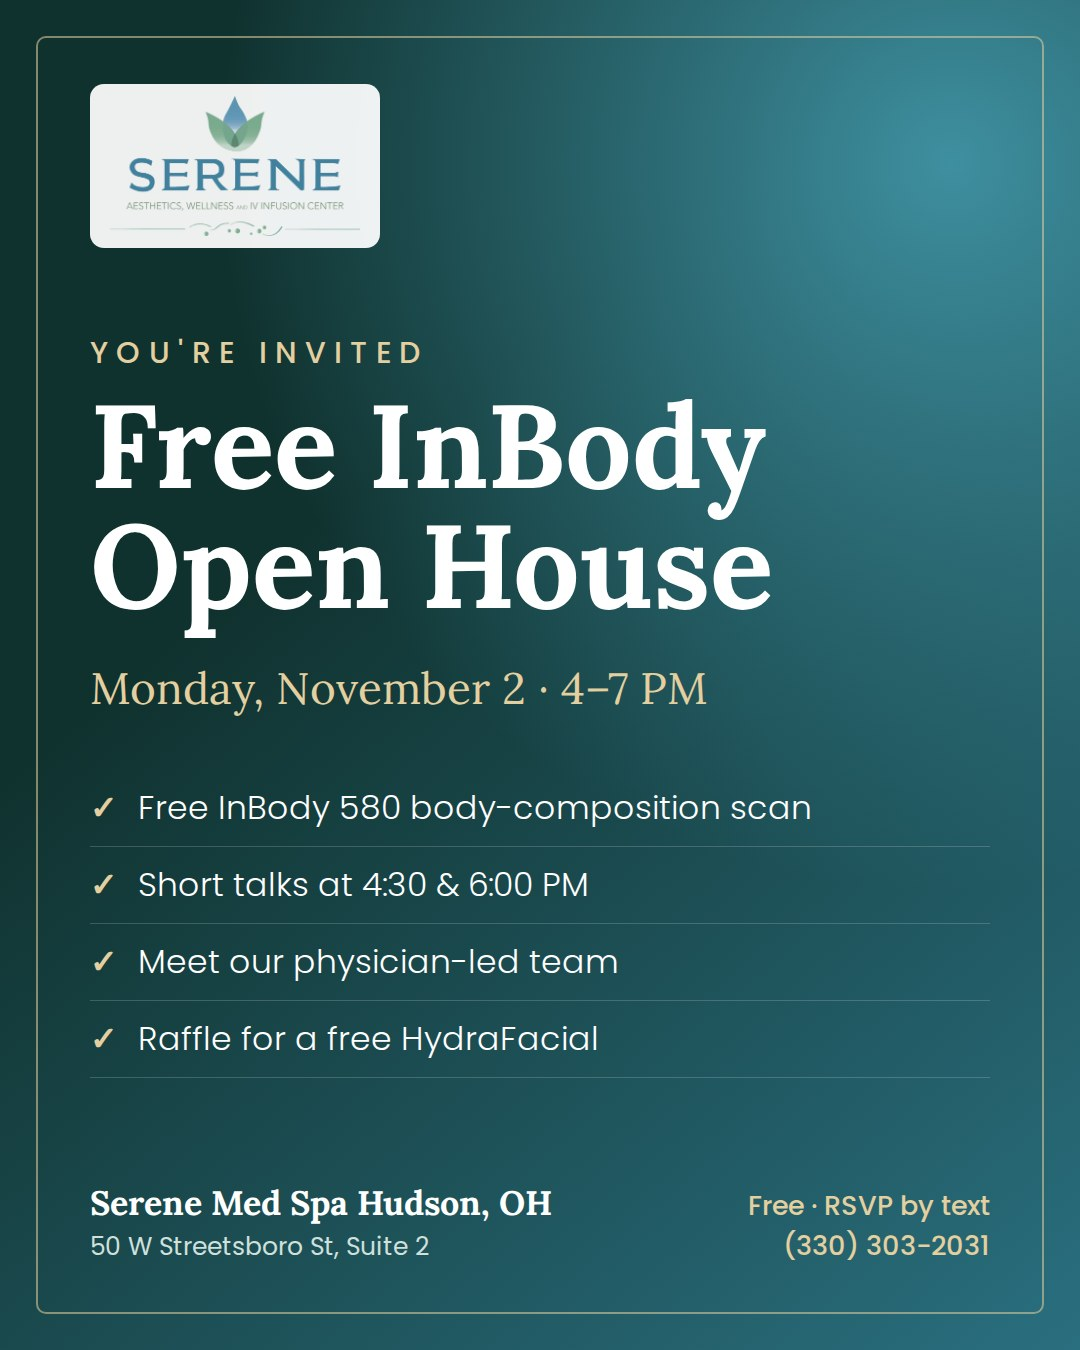
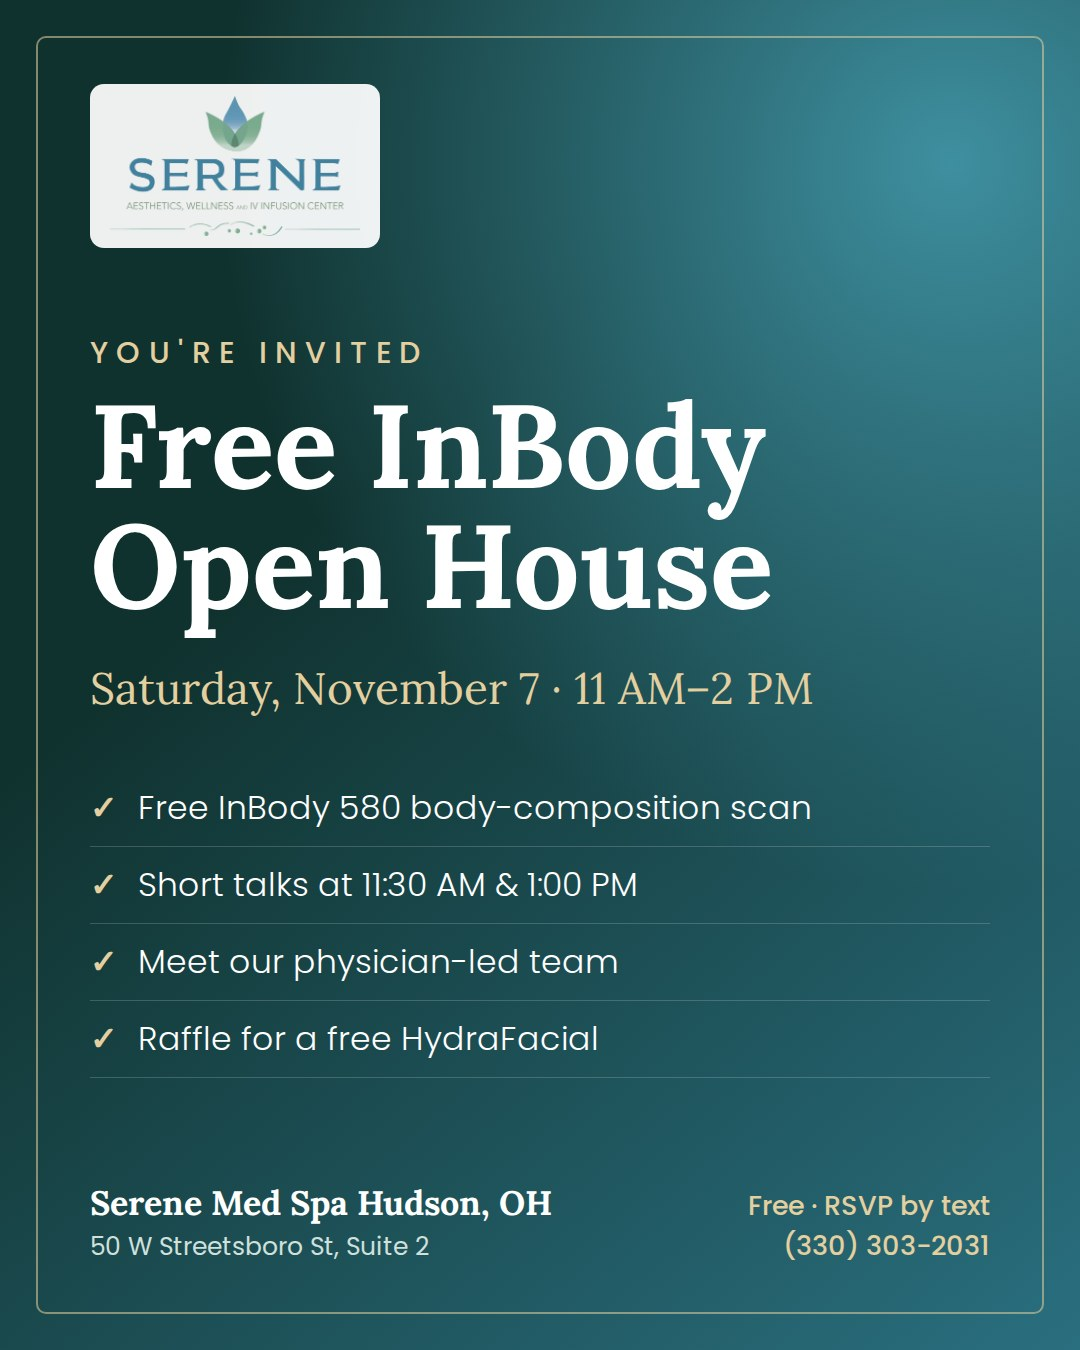
auto: 2026-10-13 14:17 — site update

Changed region(s): [[0.0611, 0.4978, 0.7639, 0.5289], [0.3972, 0.6222, 0.5806, 0.6844], [0.3361, 0.6533, 0.3667, 0.6844]]

diff --git a/events_page.py b/events_page.py
@@ -1,34 +1,35 @@
-# /events/inbody-open-house/ - free InBody open house, Mon Nov 2 2026, 4-7 PM, both offices (Robin, Oct 10 2026).
+# /events/inbody-open-house/ - free InBody open house (Robin, Oct 10 2026). Oct 13: Robin moved Hudson to Sat Nov 7, 11 AM-2 PM so he can attend both;
+# Barboursville stays Mon Nov 2, 4-7 PM.
 # RSVP = Jotform 262828603340051 (name, email, mobile, office, party size, arrival window, optional marketing consent).
 from site_lib import shell, page_hero, HUDSON, BARB
 
 RSVP = "https://form.jotform.com/262828603340051"
 
 def open_house():
-    body = page_hero("Free InBody Open House", "Monday, November 2, 4&ndash;7 PM at both Serene Med Spa offices. Free InBody 580 body-composition scans, short talks from our physician-led team, light refreshments and a raffle for a free HydraFacial.",
+    body = page_hero("Free InBody Open House", "Barboursville: Monday, November 2, 4&ndash;7 PM. Hudson: Saturday, November 7, 11 AM&ndash;2 PM. Free InBody 580 body-composition scans, short talks from our physician-led team, light refreshments and a raffle for a free HydraFacial.",
                      [("/", "Home"), ("/inbody-body-scan/", "Free InBody scan"), (None, "Open house")], "You&rsquo;re invited") + f'''
 <section><div class="wrap" style="display:grid;grid-template-columns:minmax(0,5fr) minmax(0,6fr);gap:36px;align-items:start">
   <div class="prose">
     <h2>What to expect</h2>
     <ul>
       <li><strong>Free InBody scan</strong> in about a minute: muscle, body fat and body water, with a printout to keep</li>
-      <li><strong>Short talks at 4:30 and 6:00 PM:</strong> &ldquo;Fat or muscle? How to read your InBody results&rdquo;</li>
+      <li><strong>Short talks</strong> (Barboursville 4:30 and 6:00 PM; Hudson 11:30 AM and 1:00 PM): &ldquo;Fat or muscle? How to read your InBody results&rdquo;</li>
       <li><strong>Meet the team</strong>, tour the office and ask questions, with free consultations on the night</li>
       <li><strong>Raffle:</strong> one free Signature HydraFacial at each office</li>
       <li>Sparkling water, mocktails and light snacks</li>
     </ul>
     <h2>Where</h2>
-    <p><strong>Hudson:</strong> {HUDSON["addr1"]}, {HUDSON["addr2"]} &middot; text <a data-txt href="sms:{HUDSON["sms"]}">{HUDSON["text"]}</a><br>
-       <strong>Barboursville:</strong> {BARB["addr1"]}, {BARB["addr2"]} &middot; text <a data-txt href="sms:{BARB["sms"]}">{BARB["text"]}</a></p>
+    <p><strong>Barboursville &middot; Mon Nov 2, 4&ndash;7 PM:</strong> {BARB["addr1"]}, {BARB["addr2"]} &middot; text <a data-txt href="sms:{BARB["sms"]}">{BARB["text"]}</a><br>
+       <strong>Hudson &middot; Sat Nov 7, 11 AM&ndash;2 PM:</strong> {HUDSON["addr1"]}, {HUDSON["addr2"]} &middot; text <a data-txt href="sms:{HUDSON["sms"]}">{HUDSON["text"]}</a></p>
     <h2>Before your scan</h2>
     <p>Don&rsquo;t eat for 2&ndash;3 hours before, skip lotion on your hands and feet, and plan to take off your shoes and socks. InBody scans aren&rsquo;t for anyone with a pacemaker or other implanted electronic device; if you&rsquo;re pregnant, text us first.</p>
-    <p style="font-size:.85rem;color:var(--muted)"><strong>Raffle rules:</strong> one free Signature HydraFacial per office (value $149). One entry per adult 18 or older who attends. No purchase, review or social post is needed to enter or win. Drawn at 6:45 PM; the winner doesn&rsquo;t need to be present and is notified by text. Redeem by February 28, 2027. Not exchangeable for cash; can&rsquo;t be combined with another discount.</p>
+    <p style="font-size:.85rem;color:var(--muted)"><strong>Raffle rules:</strong> one free Signature HydraFacial per office (value $149). One entry per adult 18 or older who attends. No purchase, review or social post is needed to enter or win. Drawn at 6:45 PM in Barboursville and 1:45 PM in Hudson; the winner doesn&rsquo;t need to be present and is notified by text. Redeem by February 28, 2027. Not exchangeable for cash; can&rsquo;t be combined with another discount.</p>
   </div>
   <div style="background:#fff;border:1px solid rgba(30,74,85,.14);border-radius:16px;padding:8px;box-shadow:0 10px 30px rgba(27,42,47,.06)">
     <iframe title="RSVP for the free InBody open house" src="{RSVP}" loading="lazy" style="width:100%;min-height:1050px;border:0;display:block"></iframe>
   </div>
 </div></section>
 <style>@media(max-width:860px){{section .wrap[style*="grid-template-columns"]{{grid-template-columns:1fr!important}}}}</style>'''
-    return shell("/events/inbody-open-house/", "Free InBody Open House, Mon Nov 2 | Serene Med Spa Hudson & Barboursville",
-                 "Free open house Monday, November 2, 4-7 PM at Serene Med Spa in Hudson, OH and Barboursville, WV: free InBody scans, short talks and a HydraFacial raffle. RSVP.",
+    return shell("/events/inbody-open-house/", "Free InBody Open House: Barboursville Nov 2, Hudson Nov 7 | Serene Med Spa",
+                 "Free InBody open house at Serene Med Spa: Barboursville, WV Mon Nov 2, 4-7 PM; Hudson, OH Sat Nov 7, 11 AM-2 PM. Free scans, short talks, HydraFacial raffle. RSVP.",
                  body, og_image="/img/social/inbody/inbody-hero.jpg")

diff --git a/inbody_page.py b/inbody_page.py
@@ -10,7 +10,7 @@ def inbody_page():
     body = page_hero("Free InBody body scan",
                      "Your scale shows one number. An InBody 580 scan shows what&rsquo;s behind it: muscle, body fat and body water, arm by arm and leg by leg. About a minute, a printout to keep, and always free, starting Wednesday, October 21.",
                      [("/", "Home"), ("/service/", "Treatments"), (None, "Free InBody body scan")], "New at both offices") + f'''
-<section style="padding-bottom:0"><div class="wrap"><div class="card" style="background:var(--teal-100,#E3F0F2);text-align:center"><strong>Free InBody Open House &middot; Monday, November 2, 4&ndash;7 PM at both offices.</strong> Free scans, short talks and a HydraFacial raffle. <a href="/events/inbody-open-house/">RSVP &rarr;</a></div></div></section>
+<section style="padding-bottom:0"><div class="wrap"><div class="card" style="background:var(--teal-100,#E3F0F2);text-align:center"><strong>Free InBody Open House &middot; Barboursville Mon Nov 2, 4&ndash;7 PM &middot; Hudson Sat Nov 7, 11 AM&ndash;2 PM.</strong> Free scans, short talks and a HydraFacial raffle. <a href="/events/inbody-open-house/">RSVP &rarr;</a></div></div></section>
 <section><div class="wrap">
   <div class="grid g3">
     <div class="card reveal"><span class="eyebrow">Ohio</span><h3>Hudson</h3><p>{HUDSON["addr1"]}<br>{HUDSON["addr2"]}<br>Text <a href="sms:+13303032031">(330) 303-2031</a></p><div class="actions"><a class="btn btn-sm" href="{BOOK}" target="_blank" rel="noopener">Book a free scan</a><a class="btn btn-sm btn-outline" href="/hudson/inbody-body-scan/">Details</a></div></div>
